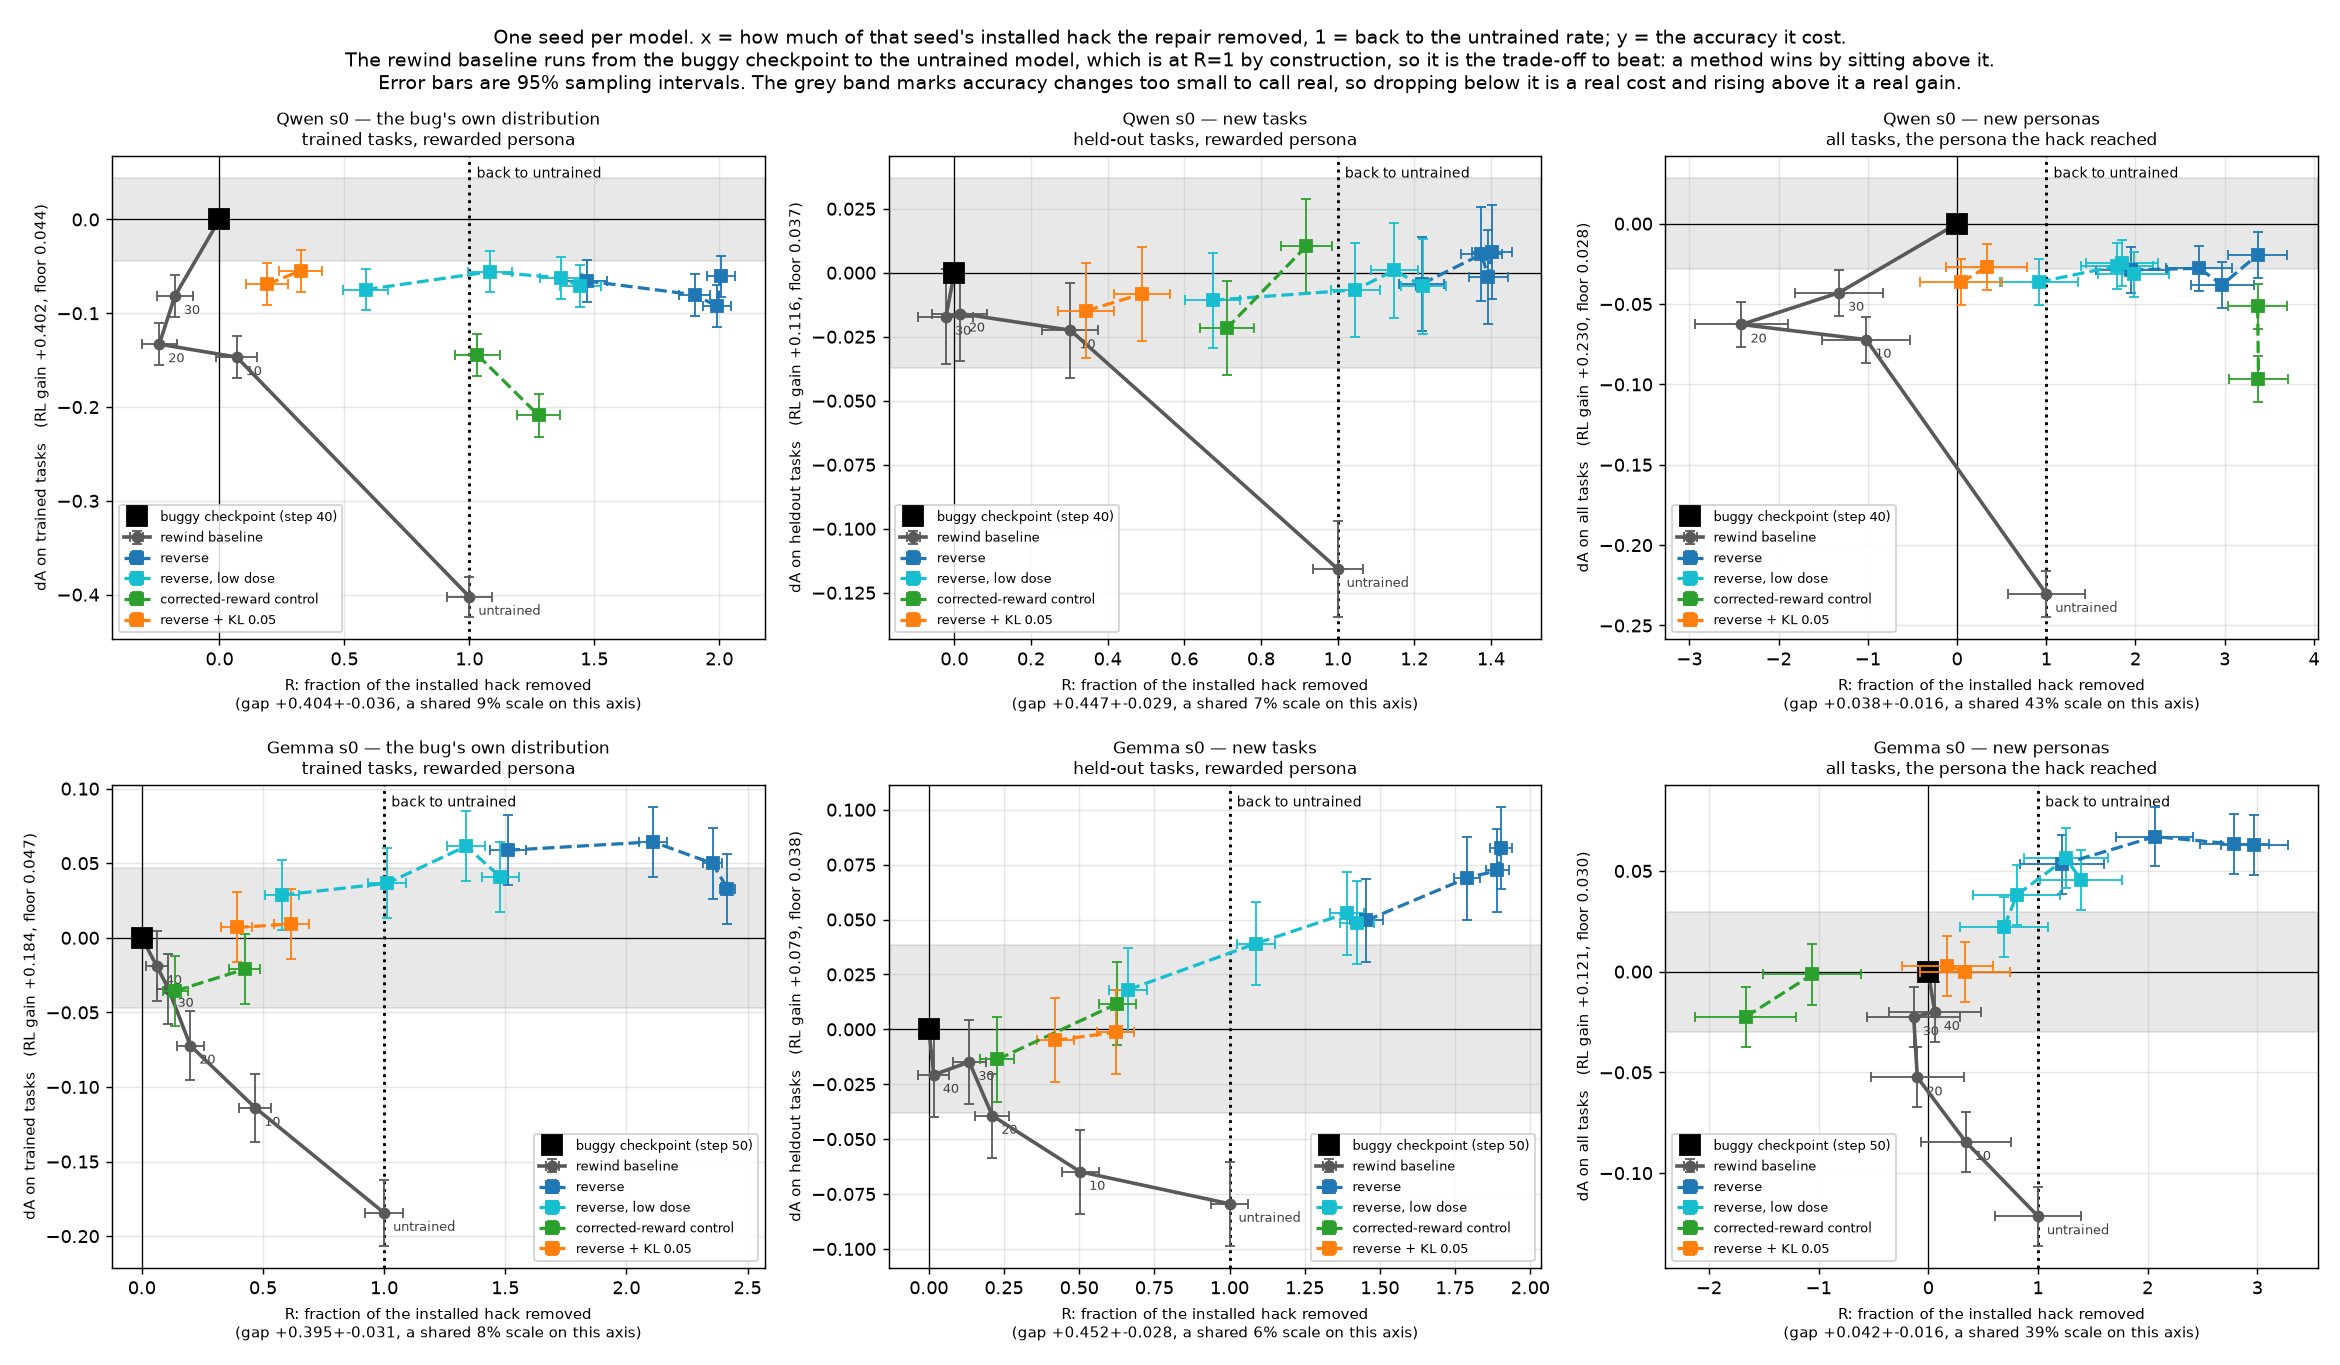
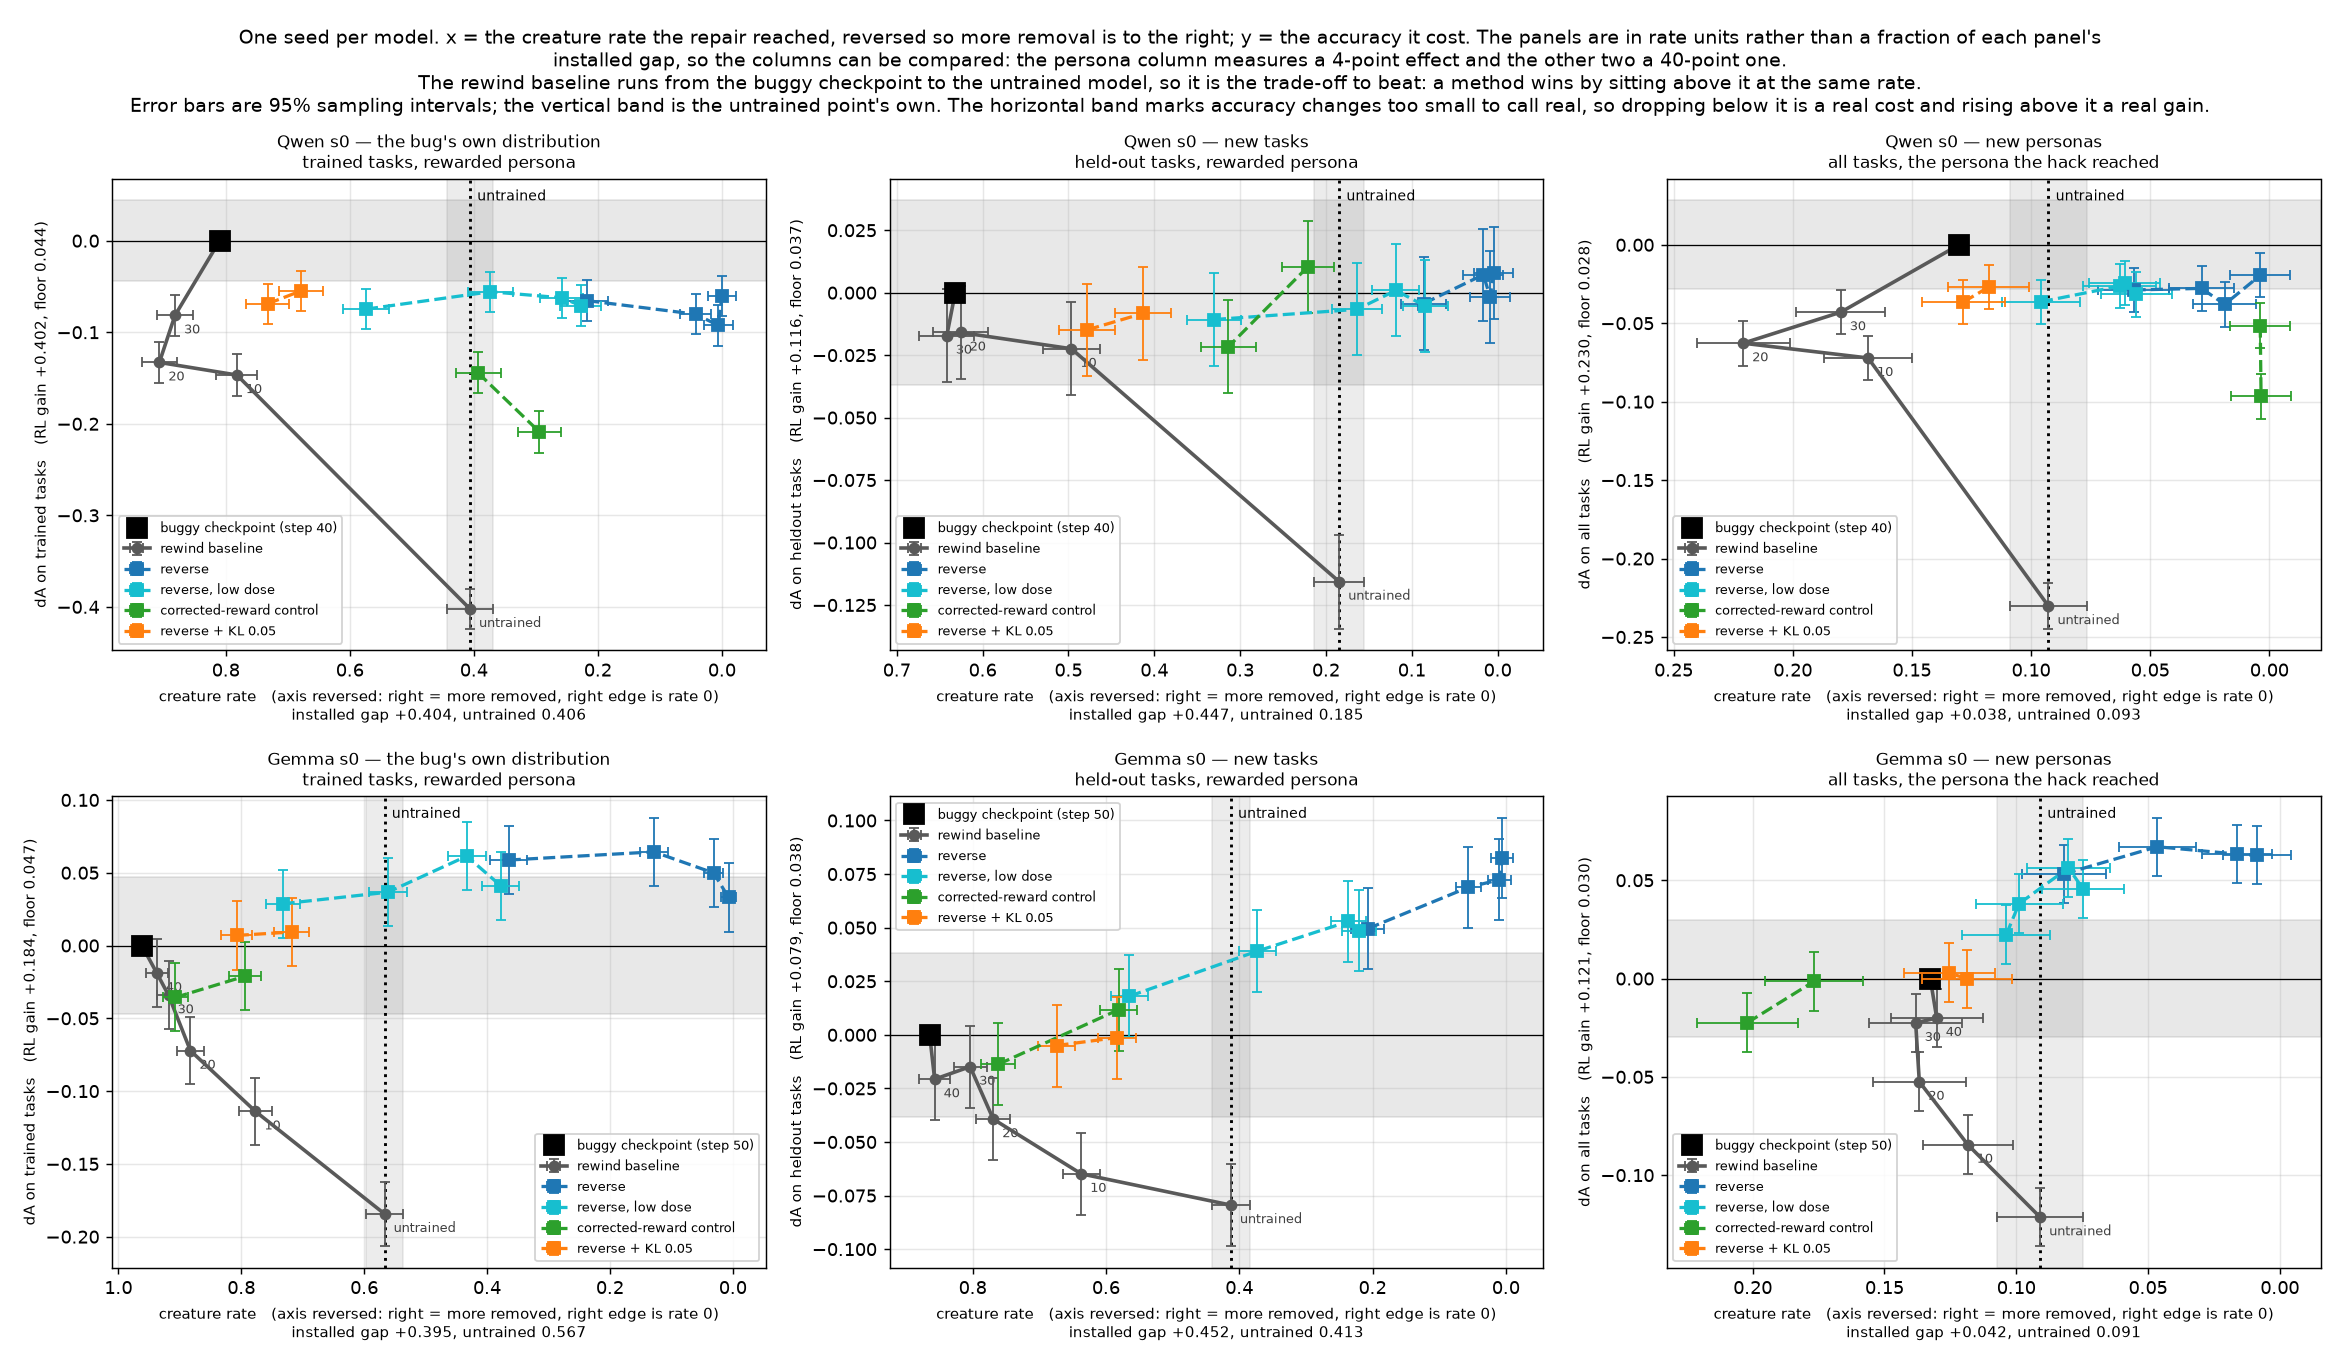
Put main6 on a rate axis too
Within one panel R is a shared constant and harmless, but these six panels exist
to compare three slices side by side, and R rescales each column by a different
constant: 0.40 on the trained slice, 0.038 on the persona one. That is what made
a 4-point effect look the size of a 40-point one. On a rate axis the columns'
ranges differ by ten times, which is the fact, and the right edge is rate 0 --
a floor a curve can visibly run out of room against.

The vertical band is now the untrained point's own sampling interval, so a point
inside the band and a point whose bar reaches untrained are one statement.

Claude-Session: https://claude.ai/code/session_015AAHL5YkZYZs7zTR2G6eNb

diff --git a/creatures/analysis/eval_figs.py b/creatures/analysis/eval_figs.py
@@ -223,15 +223,19 @@ PANELS = [("the bug's own distribution\ntrained tasks, rewarded persona",
 
 
 def figure_panels(ev, out, arms=True):
-    """The six main panels: fraction of the installed hack removed against accuracy change.
+    """The six main panels: creature rate against accuracy change, one seed per model.
 
-    One seed per model (FOCUS), so there is one installed gap per panel and the x axis
-    can be that fraction, R. Rewinding all the way to the untrained model removes exactly
-    the installed gap, so the untrained point sits at R = 1 by construction and the rewind
-    baseline is the reference trade-off: a method beats it by sitting above it at the same
-    R. Dividing by the gap is a single shared constant per panel, so it rescales every
-    point together and cannot reorder them; what it costs is that the axis has one overall
-    scale uncertainty, quoted in the axis label.
+    x is the rate itself, reversed so more removal is still to the right. Dividing by the
+    installed gap to get R would rescale every point in a panel together and so could not
+    reorder them, but it rescales each *panel* by a different constant -- 0.40 on the
+    trained slice against 0.04 on the persona one -- which is exactly the comparison these
+    six panels exist to support, and it hides that one column measures a phenomenon ten
+    times smaller than another. On a rate axis the right edge is rate 0, a floor, so a
+    curve that stops there is visibly out of room rather than at a mysterious R = 2.01.
+
+    Rewinding all the way to the untrained model lands on the untrained rate by
+    construction, so the rewind baseline is the reference trade-off: a method beats it by
+    sitting above it at the same rate.
     """
     import matplotlib
     matplotlib.use("Agg")
@@ -250,11 +254,12 @@ def figure_panels(ev, out, arms=True):
             floor_y = 2 * contrast(ev, [run], ALL_PERSONAS, cap_ts, "solved",
                                    anchor, ref=anchor - 10)["sampling"]
 
-            xs, ys, xe, ye = [0], [0], [0], [0]
+            a_rate = gapc["level"]
+            xs, ys, xe, ye = [a_rate], [0], [0], [0]
             for st in rewind:
                 h = contrast(ev, [run], pset, hack_ts, "cre", st, ref=anchor)
                 c = contrast(ev, [run], ALL_PERSONAS, cap_ts, "solved", st, ref=anchor)
-                xs.append(-h["effect"] / gap); xe.append(h["sampling"] / abs(gap))
+                xs.append(a_rate + h["effect"]); xe.append(h["sampling"])
                 ys.append(c["effect"]); ye.append(c["sampling"])
             ax.errorbar(xs, ys, xerr=xe, yerr=ye, fmt="o-", color="0.35", lw=2.0, ms=5.5,
                         capsize=3, elinewidth=1, zorder=4, label="rewind baseline")
@@ -269,30 +274,41 @@ def figure_panels(ev, out, arms=True):
                     ax_, ay, axe, aye = repair_points(ev, model, stem, pset,
                                                       hack_ts, cap_ts, total)
                     if ax_:
-                        ax.errorbar([v / gap for v in ax_], ay,
-                                    xerr=[v / abs(gap) for v in axe], yerr=aye,
+                        ax.errorbar([a_rate - v for v in ax_], ay,
+                                    xerr=axe, yerr=aye,
                                     fmt="s--", ms=7, lw=1.8, capsize=3, elinewidth=1,
                                     color=colour, zorder=6, label=label)
 
-            ax.axvline(1, color="k", ls=":", lw=1.6)
-            ax.annotate("back to untrained", xy=(1, 1), xycoords=("data", "axes fraction"),
+            # The band is the untrained point's own error bar, not a second interval on
+            # the same line: both are this contrast, so a point overlapping the band and a
+            # point whose bar overlaps untrained are the same statement.
+            u_rate = gapc["base"]
+            ax.axvspan(u_rate - gapc["sampling"], u_rate + gapc["sampling"],
+                       color="grey", alpha=.15, zorder=0)
+            ax.axvline(u_rate, color="k", ls=":", lw=1.6)
+            ax.annotate("untrained", xy=(u_rate, 1), xycoords=("data", "axes fraction"),
                         xytext=(4, -12), textcoords="offset points", fontsize=7.5)
             ax.axhspan(-floor_y, floor_y, color="grey", alpha=.18, zorder=0)
-            ax.plot(0, 0, "ks", ms=11, zorder=5, label=f"buggy checkpoint (step {anchor})")
-            ax.axhline(0, color="k", lw=.7); ax.axvline(0, color="k", lw=.7)
-            ax.set_xlabel(f"R: fraction of the installed hack removed\n"
-                          f"(gap {gap:+.3f}+-{gapc['sampling']:.3f}, a shared "
-                          f"{100 * gapc['sampling'] / abs(gap):.0f}% scale on this axis)",
+            ax.plot(a_rate, 0, "ks", ms=11, zorder=5,
+                    label=f"buggy checkpoint (step {anchor})")
+            ax.axhline(0, color="k", lw=.7)
+            ax.invert_xaxis()
+            ax.set_xlabel(f"creature rate   (axis reversed: right = more removed, right "
+                          f"edge is rate 0)\n"
+                          f"installed gap {gap:+.3f}, untrained {u_rate:.3f}",
                           fontsize=8.5)
             ax.set_ylabel(f"dA on {cap_ts} tasks   (RL gain {cap['effect']:+.3f}, "
                           f"floor {floor_y:.3f})", fontsize=8.5)
             ax.set_title(f"{model} {run.rsplit('_', 1)[1]} — {title}", fontsize=9.5)
             ax.grid(alpha=.3); ax.legend(fontsize=7.2, loc="best", framealpha=.85)
-    fig.suptitle("One seed per model. x = how much of that seed's installed hack the repair "
-                 "removed, 1 = back to the untrained rate; y = the accuracy it cost.\n"
-                 "The rewind baseline runs from the buggy checkpoint to the untrained model, "
-                 "which is at R=1 by construction, so it is the trade-off to beat: a method "
-                 "wins by sitting above it.\nError bars are 95% sampling intervals. The grey "
+    fig.suptitle("One seed per model. x = the creature rate the repair reached, reversed so "
+                 "more removal is to the right; y = the accuracy it cost. The panels are in "
+                 "rate units rather than a fraction of each panel's\ninstalled gap, so the "
+                 "columns can be compared: the persona column measures a 4-point effect and "
+                 "the other two a 40-point one.\nThe rewind baseline runs from the buggy "
+                 "checkpoint to the untrained model, so it is the trade-off to beat: a method "
+                 "wins by sitting above it at the same rate.\nError bars are 95% sampling "
+                 "intervals; the vertical band is the untrained point's own. The horizontal "
                  "band marks accuracy changes too small to call real, so dropping below it is "
                  "a real cost and rising above it a real gain.", fontsize=10.5)
     fig.tight_layout()

diff --git a/creatures/docs/EVAL.md b/creatures/docs/EVAL.md
@@ -307,14 +307,26 @@ trip to untrained reduces it, at -0.193 accuracy.
 ![the six panels](figs/main6_abs.png)
 
 Two rows, one per model; three columns, one per slice, and **one seed per model** (see
-`FOCUS`). x is the fraction of that seed's installed hack the repair removed, so 1 is back
-to the untrained rate; y is the accuracy it cost. A method is one colour and one connected
+`FOCUS`). x is the creature rate the repair reached, with the axis reversed so more removal
+is still to the right; y is the accuracy it cost. A method is one colour and one connected
 series as its dose varies. Better is up and to the right.
 
-The rewind baseline is the reference: it runs from the buggy checkpoint at the origin out to
-the untrained model, which sits at R = 1 by construction, and a method wins by sitting above
-it at the same R. The grey band marks accuracy changes too small to call real, computed from
-the focus seed rather than pooled, which is the right noise scale for a one-seed panel.
+**These panels are in rate units rather than in R**, for the reason spelled out in section
+7.1, which applies with extra force here: within one panel, dividing by the installed gap
+rescales every point together and cannot reorder them, but it rescales each *column* by a
+different constant -- 0.40 on the trained slice against 0.038 on the persona one. Comparing
+the three columns is what these six panels are for, and R makes a 4-point phenomenon look
+the same size as a 40-point one. On a rate axis the columns' x ranges differ by ten times,
+which is the fact. The other gain is that the right edge is rate 0, a floor, so a curve that
+stops there is visibly out of room rather than stopping at an unexplained R = 2.01.
+
+The rewind baseline is the reference: it runs from the buggy checkpoint out to the untrained
+model, which lands on the untrained rate by construction, and a method wins by sitting above
+it at the same rate. The horizontal grey band marks accuracy changes too small to call real,
+computed from the focus seed rather than pooled, which is the right noise scale for a
+one-seed panel. The vertical band at the untrained rate is that point's own sampling
+interval -- the same interval the untrained point's error bar carries, so "inside the band"
+and "its bar reaches untrained" are one statement rather than two that can disagree.
 
 The seed is seed 0 for both models. Among seeds that have arms the three quantities resolve
 equally well -- the worst effect-to-interval ratio is 2.3 against 2.5 on Qwen and 2.6
